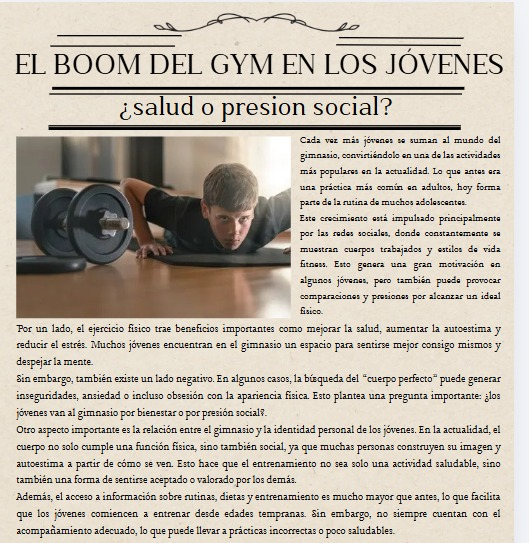
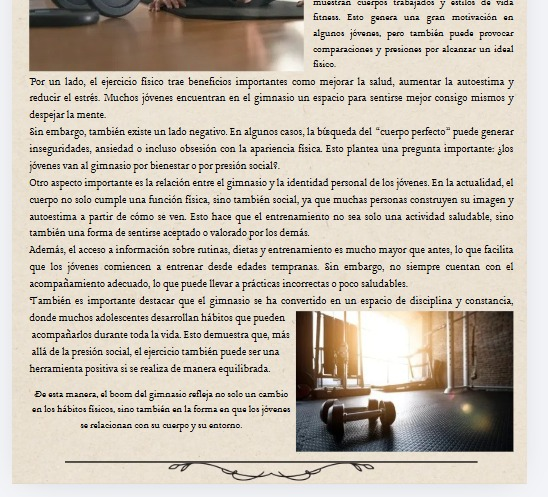
Agrego categorias y filtros

diff --git a/index.html b/index.html
@@ -406,6 +406,7 @@
             const [loading, setLoading] = useState(true);
             const [error, setError] = useState(null);
             const [busqueda, setBusqueda] = useState("");
+            const [categoria, setCategoria] = useState("Todos");
 
             useEffect(() => {
                 fetch('diarios.json')
@@ -481,6 +482,26 @@
 
                         {currentView === 'archive' && !currentDiario && (
                             <div className="max-w-7xl mx-auto">
+                                <section className="mb-6 flex flex-wrap justify-center gap-3">
+
+                                    {["Todos", "Ambiente", "Ciencia", "Sociedad", "Tecnologia", "Actualidad", "Deportes"].map((cat) => (
+
+                                        <button
+                                            key={cat}
+                                            onClick={() => setCategoria(cat)}
+                                            className={`
+                px-4 py-2 rounded-full text-sm font-semibold transition-all
+                ${categoria === cat
+                                                    ? 'bg-brand text-white'
+                                                    : 'bg-slate-800 text-slate-300 hover:bg-slate-700'}
+            `}
+                                        >
+                                            {cat}
+                                        </button>
+
+                                    ))}
+
+                                </section>
 
                                 <section className="mb-10 text-center">
                                     <input
@@ -494,9 +515,18 @@
 
                                 <section className="grid grid-cols-1 sm:grid-cols-2 lg:grid-cols-3 gap-8">
                                     {diarios
-                                        .filter((diario) =>
-                                            diario.name.toLowerCase().includes(busqueda.toLowerCase())
-                                        )
+                                        .filter((diario) => {
+
+                                            const coincideBusqueda =
+                                                diario.name.toLowerCase().includes(busqueda.toLowerCase());
+
+                                            const coincideCategoria =
+                                                categoria === "Todos" ||
+                                                (diario.categoria || "").trim().toLowerCase() === categoria.trim().toLowerCase();
+
+                                            return coincideBusqueda && coincideCategoria;
+
+                                        })
                                         .map((diario, index) => (
                                             <DiarioCard
                                                 key={index}
